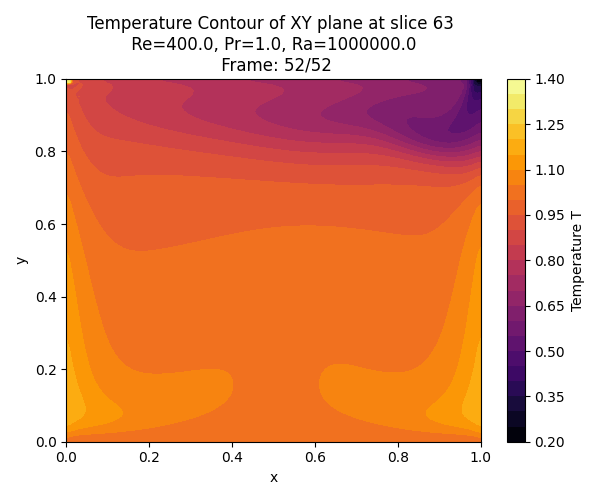
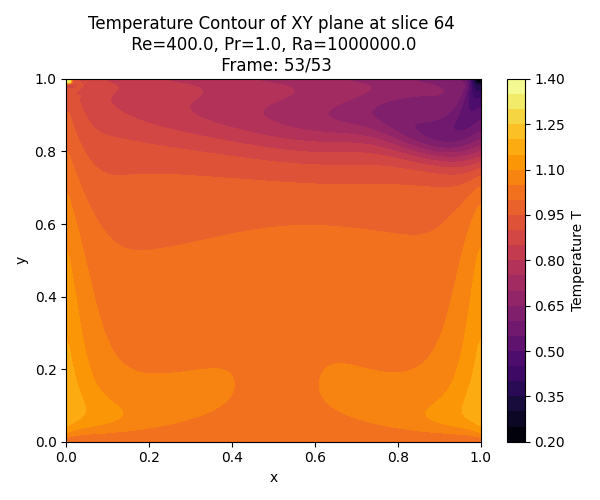
edit README and figures

Changed region(s): [[0.15, 0.03, 0.75, 0.06], [0.54, 0.12, 0.57, 0.15], [0.48, 0.12, 0.51, 0.15]]

diff --git a/README.md b/README.md
@@ -115,8 +115,8 @@ Key parameters can be modified in `src/main.cpp`:
 
 |Grid Size | Time/1000 Steps |
 |----------|-----------------|
-| 64³ | XX s |
-| 128³ | XX s |
+| 64³ | 9.19 s |
+| 128³ | 31.60 s |
 | 256³ | XX s |
 
 ## Build Requirements